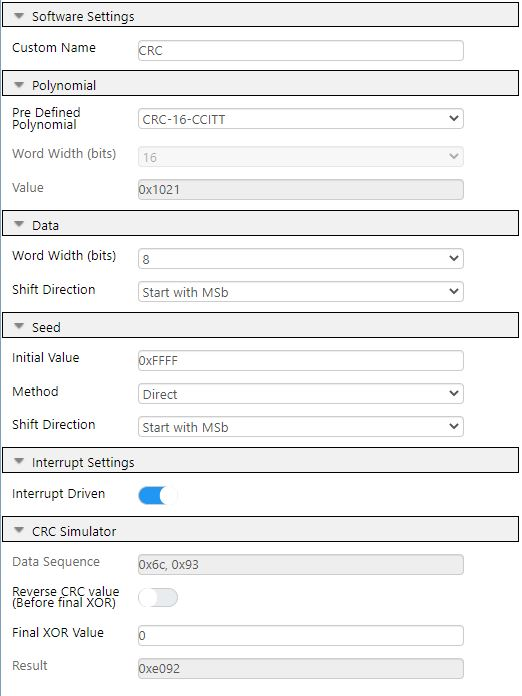
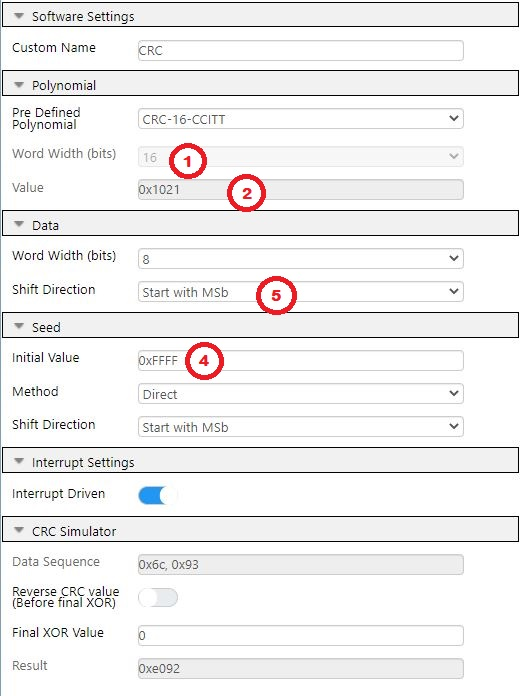
Changed data to match simulator, removed table in favor of labelled pictures

diff --git a/dspic33ck-curiosity-crc-basic.X/main.c b/dspic33ck-curiosity-crc-basic.X/main.c
@@ -79,7 +79,7 @@ int main(void)
     SYSTEM_Initialize();
     
     // data for which the CRC result will be calculated
-    uint8_t buffer[8] = {0x38, 0x37, 0x36, 0x35, 0x34, 0x33, 0x32, 0x31};
+    uint8_t buffer[2] = {0x6C, 0x93};
     uint8_t bufferLength = sizeof(buffer) / sizeof(buffer[0]);  
     
     uint16_t hardwareResult;

diff --git a/README.md b/README.md
@@ -32,7 +32,7 @@ The code example uses MPLAB® Code Configurator Melody CRC Driver to configure C
 
 1. Connect the board to the PC using a USB cable.
 
-![Hardware Setup Image](images/hardware_setup.jpg)
+    ![Hardware Setup Image](images/hardware_setup.jpg)
 
 ## Software Setup
 
@@ -40,34 +40,34 @@ The code example uses MPLAB® Code Configurator Melody CRC Driver to configure C
 
 1. Launch the MPLAB® Data Visualizer.
 
-![Data Visualizer Icon](images/data_visualizer_icon.JPG)
+    ![Data Visualizer Icon](images/data_visualizer_icon.JPG)
 
 2. Find the correct COM Port from the list on the left and click the play button.
 
-![COM Port list withplay button highlighted](images/dv_COM_select_play_highlighted.JPG)
+    ![COM Port list withplay button highlighted](images/dv_COM_select_play_highlighted.JPG)
 
 3. Select the "Send to Terminal" button.
 
-![Send to Terminal button](images/dv_data_capture_menu.JPG)
+    ![Send to Terminal button](images/dv_data_capture_menu.JPG)
 
 4. Click on the settings icon next to the source dropdown in the input section.
 
-![Source Settings Icon](images/dv_source_settings_button.JPG)
+    ![Source Settings Icon](images/dv_source_settings_button.JPG)
 
 5. Verify that the serial port settings match the following:
 
-![Source Settings Menu](images/dv_source_settings.JPG)
+    ![Source Settings Menu](images/dv_source_settings.JPG)
 
 ### Terminal Setup (Tera Term)
 1. Launch Tera Term
 2. Go to File -> New Connection.
 3. Select the "Serial" option and select the correct COM Port from the dropdown menu.
 
-![COM port selection](images/tera_term_COM_port_selection.JPG)
+    ![COM port selection](images/tera_term_COM_port_selection.JPG)
 
 4. Go to Setup -> Serial port and ensure that the settings match the following:
 
-![Tera Term Serial Port Settings](images/tera_term_serial_port_menu.JPG)
+    ![Tera Term Serial Port Settings](images/tera_term_serial_port_menu.JPG)
 
 ### MPLAB® X IDE Setup
 1. Launch MPLAB® X IDE and load the dspic33ck-curiosity-crc-basic project.
@@ -98,19 +98,20 @@ For CRC-16-CCITT, the settings are as follows:
 
 Online calculators can be used to test different configurations and try different settings. Most developers compare results with an online calculator for comparison purposes. An example that was used in the development of this code example is the [Online Calculator by Sven Reifegerste (Zorc)](http://www.zorc.breitbandkatze.de/crc.html).
 
-| Setting | MCC Melody | Online Calculator | Register | API | 
-| --- | --- | --- | --- | --- |
-| CRC Order | Word Width (Bits) | CRC order (1..64)| CRCCONH (CRCCONHbits.PLEN) | Register value set in CRC_Initialize() |
-| Polynomial | Pre Defined Polynomial / Value | CRC polynom (hex) | CRCXORL (and CRCXORH for 32 bits) | Register value set in CRC_Initialize() |
-| Initial Value | Initial Value | Initial value (hex) | CRCWDATL (and CRCWDATH for 32 bits) | CRC_SeedSet() |
-| Final XOR | No setting in MCC Melody | Final XOR value (hex) | Not stored in a register | CRC_CalculationResultXORGet(), Input in CRC_CalculationResultGet() |
-| Shift Direction | Data -> Shift Direction | reverse data bytes | CRCCONL (CRCCONLbits.LENDIAN) | Register value set in CRC_Initialize() | 
-| Reverse | register value set in  | reverse CRC result before Final XOR | Not stored in a register | CRC_CalculationResultReverseGet(), Input in CRC_CalculationResultGet() | 
-| Data | Not visible in the MCC Melody UI | Data sequence | Fed into CRCDATL | No API |
+Online Calculator:
+
+![Labeled Online Calculator](images/online_calculator_UI.JPG)
+
+MCC Melody: 
+
+![Labeled MCC Melody UI](images/demo_CRC_settings.JPG)
+![Labeled CRC_CalculationResultGet()](images/CRC_CalculationResultGet.JPG)
+
+***Note**: The "Reverse CRC value" and "Final XOR Value" only work for the simulator, they will not be used in the firmware calculations.
 
 For this code example, the calculation performed by the MCC Melody CRC Driver can be replicated with the online calculator by the following steps:
 - Select "CRC-CCITT" button.
-- Enter the folowing for "data sequence": %38%37%36%35%34%33%32%31
+- Enter the folowing for "data sequence": %6c%93
 - Click the "compute" button.
   
 The result should be 0x9B4D, matching the calculation performed by the MCC Melody CRC Driver.
